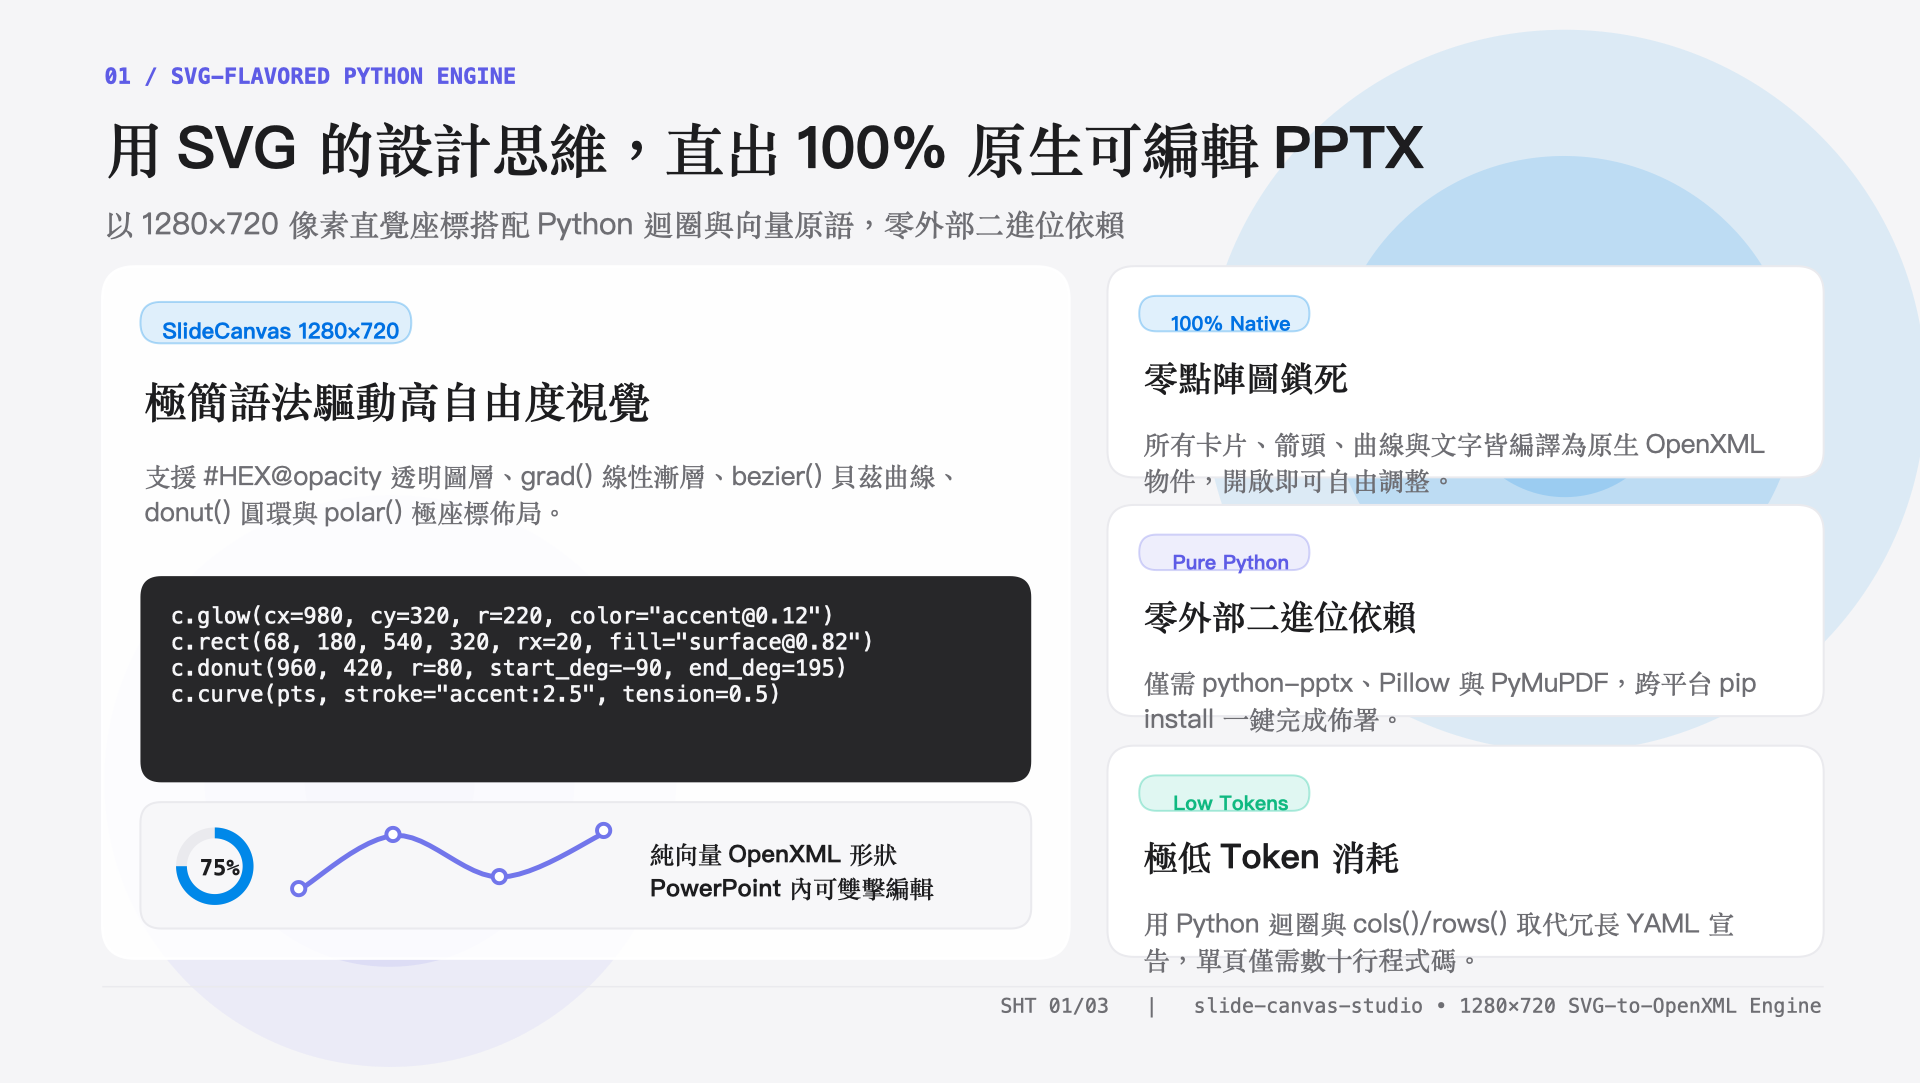
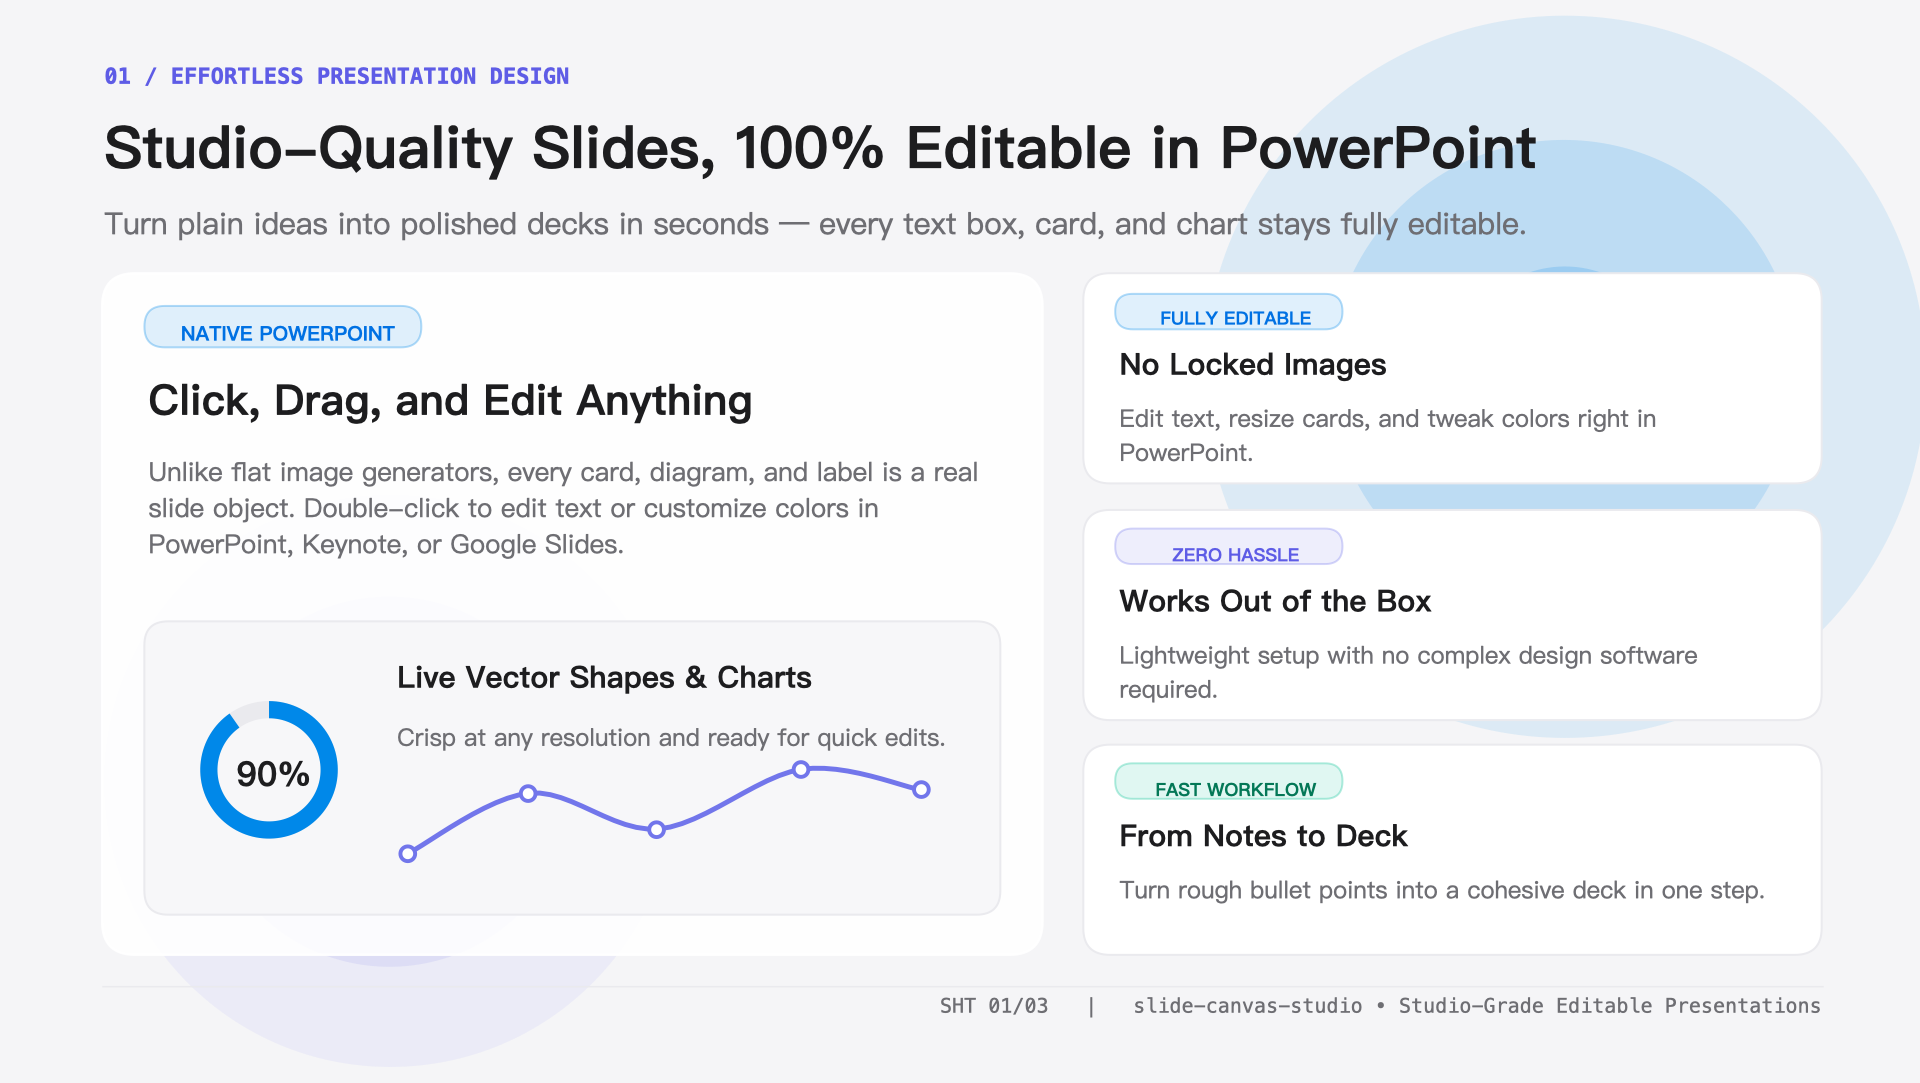
fix(layout): add container overflow check, calibrate Latin text width & update English user-focused showcase

diff --git a/scripts/dump_slide_layout.py b/scripts/dump_slide_layout.py
@@ -86,8 +86,8 @@ def is_intentional_container(outer: dict, inner: dict) -> bool:
     if area_outer <= area_inner * 1.15:
         return False
     inter = intersection_area(outer, inner)
-    # If >= 85% of inner lies inside outer:
-    if inter / area_inner >= 0.85:
+    # Require >= 98% of inner to lie inside outer so protruding children are caught:
+    if inter / area_inner >= 0.98:
         # Container either has no text (like col_1_card) or top-aligned header text above inner
         if not outer["text"].strip():
             return True
@@ -140,8 +140,24 @@ def dump_slide_layout(pptx_path: str, slide_num: int, out_json: str = None) -> d
             el_type = "shape"
             text_val = shp.text_frame.text if shp.has_text_frame else ""
             font_pt = extract_shape_font_pt(shp, 12.5)
-            est_h = estimate_text_height_cm(text_val, font_pt, w_cm) if text_val.strip() else 0.0
-            is_overflow = bool(text_val.strip() and est_h > h_cm * 1.18 and not decorative)
+            if text_val.strip():
+                is_pill = name.lower().startswith("pill_")
+                is_stat_val = name.lower().startswith("stat_val_")
+                _, est_h, line_count = wrap_and_measure_text(
+                    text_val,
+                    box_w_cm=w_cm,
+                    font_size_pt=font_pt,
+                    line_height=1.18 if is_stat_val else 1.32,
+                    pad_v_cm=0.04 if (is_pill or is_stat_val) else 0.14,
+                )
+            else:
+                est_h, line_count = 0.0, 0
+            is_pill_wrap = name.lower().startswith("pill_") and h_cm <= 0.95 and line_count > 1
+            is_overflow = bool(
+                text_val.strip()
+                and not decorative
+                and (est_h > h_cm * 1.05 or is_pill_wrap)
+            )
 
         is_oob = False
         if not decorative:
@@ -208,7 +224,45 @@ def dump_slide_layout(pptx_path: str, slide_num: int, out_json: str = None) -> d
                     }
                 )
 
-    # Background fill & text contrast check
+    # Container boundary check: detect child elements protruding outside their parent card_bg_*
+    container_overflows = []
+    container_cards = [
+        e for e in elements
+        if ("card_bg" in e["name"].lower() or (not e["text"].strip() and "box_" in e["name"].lower()))
+        and "glow" not in e["name"].lower()
+        and e["w_cm"] >= 1.8 and e["h_cm"] >= 1.0
+    ]
+    for el in non_dec:
+        cx = el["x_cm"] + el["w_cm"] / 2.0
+        top_anchor_y = min(el["bottom_cm"], el["y_cm"] + 0.15)
+        el_area = el["w_cm"] * el["h_cm"]
+        enclosing = [
+            c for c in container_cards
+            if c["index"] < el["index"]
+            and (c["w_cm"] * c["h_cm"]) > el_area * 1.15
+            and c["x_cm"] <= cx <= c["right_cm"]
+            and c["y_cm"] <= top_anchor_y <= c["bottom_cm"]
+        ]
+        if enclosing:
+            parent = min(enclosing, key=lambda c: c["w_cm"] * c["h_cm"])
+            eff_bottom = max(el["bottom_cm"], round(el["y_cm"] + el["estimated_text_h_cm"], 3))
+            if (
+                eff_bottom > parent["bottom_cm"] - 0.04
+                or el["right_cm"] > parent["right_cm"] + 0.05
+                or el["x_cm"] < parent["x_cm"] - 0.05
+                or el["y_cm"] < parent["y_cm"] - 0.05
+            ):
+                container_overflows.append(
+                    {
+                        "child": el["name"],
+                        "container": parent["name"],
+                        "child_bounds": [el["x_cm"], el["y_cm"], el["right_cm"], eff_bottom],
+                        "container_bounds": [parent["x_cm"], parent["y_cm"], parent["right_cm"], parent["bottom_cm"]],
+                        "text_preview": el["text"][:50],
+                    }
+                )
+
+    # Background fill & container-aware text contrast check
     _A_NS = "{http://schemas.openxmlformats.org/drawingml/2006/main}"
     _P_NS = "{http://schemas.openxmlformats.org/presentationml/2006/main}"
 
@@ -221,6 +275,22 @@ def dump_slide_layout(pptx_path: str, slide_num: int, out_json: str = None) -> d
         l1, l2 = _rel_lum(h1), _rel_lum(h2)
         return round((max(l1, l2) + 0.05) / (min(l1, l2) + 0.05), 2)
 
+    def _extract_solid_hex(shp_obj):
+        sp_pr = getattr(shp_obj._element, "spPr", None)
+        if sp_pr is None:
+            return None
+        srgb = sp_pr.find(f"{_A_NS}solidFill/{_A_NS}srgbClr")
+        if srgb is not None and srgb.get("val"):
+            alpha_el = srgb.find(f"{_A_NS}alpha")
+            if alpha_el is not None and alpha_el.get("val"):
+                try:
+                    if int(alpha_el.get("val")) < 50000:
+                        return None
+                except ValueError:
+                    pass
+            return srgb.get("val").upper()
+        return None
+
     bg_hex = "FFFFFF"
     bg_pr = slide.background._element.find(f"{_P_NS}bg/{_P_NS}bgPr")
     if bg_pr is not None:
@@ -232,30 +302,47 @@ def dump_slide_layout(pptx_path: str, slide_num: int, out_json: str = None) -> d
             if gs is not None and gs.get("val"):
                 bg_hex = gs.get("val").upper()
 
+    filled_stack = []
     contrast_issues = []
-    for shp in slide.shapes:
+    for idx_s, shp in enumerate(slide.shapes, start=1):
+        el_meta = elements[idx_s - 1]
+        own_hex = _extract_solid_hex(shp)
         if shp.has_text_frame and shp.text_frame.text.strip():
-            # Only check shapes without opaque solid fill against slide background
-            sp_pr = getattr(shp._element, "spPr", None)
-            has_own_fill = sp_pr is not None and sp_pr.find(f"{_A_NS}solidFill/{_A_NS}srgbClr") is not None
-            if not has_own_fill:
-                for p in shp.text_frame.paragraphs:
-                    for r in p.runs:
-                        if r.text.strip() and r.font.color and r.font.color.rgb:
-                            fg_hex = str(r.font.color.rgb).upper()
-                            ratio = _cr(bg_hex, fg_hex)
-                            if ratio < 3.0:
-                                contrast_issues.append({
-                                    "name": shp.name or f"shape_{shp.shape_id}",
-                                    "bg_hex": bg_hex,
-                                    "fg_hex": fg_hex,
-                                    "contrast_ratio": ratio,
-                                    "text_preview": r.text[:40],
-                                })
-                            break
-                    break
+            eff_bg = own_hex
+            if not eff_bg:
+                cx = el_meta["x_cm"] + el_meta["w_cm"] / 2.0
+                cy = el_meta["y_cm"] + el_meta["h_cm"] / 2.0
+                for prev_box, prev_hex in reversed(filled_stack):
+                    if prev_box["x_cm"] <= cx <= prev_box["right_cm"] and prev_box["y_cm"] <= cy <= prev_box["bottom_cm"]:
+                        eff_bg = prev_hex
+                        break
+            if not eff_bg:
+                eff_bg = bg_hex
+            for p in shp.text_frame.paragraphs:
+                for r in p.runs:
+                    if r.text.strip() and r.font.color and r.font.color.rgb:
+                        fg_hex = str(r.font.color.rgb).upper()
+                        ratio = _cr(eff_bg, fg_hex)
+                        if ratio < 3.0:
+                            contrast_issues.append({
+                                "name": shp.name or f"shape_{shp.shape_id}",
+                                "bg_hex": eff_bg,
+                                "fg_hex": fg_hex,
+                                "contrast_ratio": ratio,
+                                "text_preview": r.text[:40],
+                            })
+                        break
+                break
+        if own_hex and "glow" not in el_meta["name"].lower():
+            filled_stack.append((el_meta, own_hex))
 
-    status = "PASS" if (len(out_of_bounds) == 0 and len(overlap_pairs) == 0 and len(overflow_risks) == 0 and len(contrast_issues) == 0) else "WARN"
+    status = "PASS" if (
+        len(out_of_bounds) == 0
+        and len(overlap_pairs) == 0
+        and len(container_overflows) == 0
+        and len(overflow_risks) == 0
+        and len(contrast_issues) == 0
+    ) else "WARN"
 
     if not out_json:
         project_dir = os.path.dirname(os.path.dirname(pptx_path))
@@ -273,12 +360,14 @@ def dump_slide_layout(pptx_path: str, slide_num: int, out_json: str = None) -> d
             "content_elements": len(non_dec),
             "out_of_bounds_count": len(out_of_bounds),
             "overlap_count": len(overlap_pairs),
+            "container_overflow_count": len(container_overflows),
             "overflow_risk_count": len(overflow_risks),
             "contrast_issue_count": len(contrast_issues),
         },
         "issues": {
             "out_of_bounds": out_of_bounds,
             "overlap_pairs": overlap_pairs,
+            "container_overflows": container_overflows,
             "overflow_risks": overflow_risks,
             "contrast_issues": contrast_issues,
         },

diff --git a/scripts/text_measure.py b/scripts/text_measure.py
@@ -23,27 +23,29 @@ def measure_text_width_cm(text: str, font_size_pt: float, bold: bool = False) ->
     if not text:
         return 0.0
     em_cm = font_size_pt * 0.0352778
-    bold_factor = 1.05 if bold else 1.0
+    bold_factor = 1.06 if bold else 1.0
     total_units = 0.0
     for ch in text:
         if ch == "\n":
             continue
         if ch == " ":
-            total_units += 0.28
-        elif unicodedata.east_asian_width(ch) in ("W", "F"):
-            total_units += 1.02
-        elif ch.isupper():
-            total_units += 0.68
-        elif ch.isdigit():
-            total_units += 0.56
-        elif ch in "ilIjtf.,:;'|!":
             total_units += 0.30
-        elif ch in "mwMW@#%&":
+        elif unicodedata.east_asian_width(ch) in ("W", "F"):
+            total_units += 1.03
+        elif ch in "MW@#%&":
+            total_units += 0.86
+        elif ch.isupper():
+            total_units += 0.67
+        elif ch.isdigit():
+            total_units += 0.58
+        elif ch in "ilIjtf.,:;'|!":
+            total_units += 0.33
+        elif ch in "mw":
             total_units += 0.82
         else:
-            total_units += 0.53
-    # Add small headroom (4%) to guard against OS font metric variance
-    return round(total_units * em_cm * bold_factor * 1.04, 4)
+            total_units += 0.56
+    # Add 7% headroom to guard against PowerPoint/QuickLook word-wrap margin variance
+    return round(total_units * em_cm * bold_factor * 1.07, 4)
 
 
 def _is_latin_word_char(ch: str) -> bool:

diff --git a/README.md b/README.md
@@ -16,16 +16,16 @@ Zero binary dependencies · CJK-aware typography · WCAG contrast guard · Dual 
 <table>
   <tr>
     <td width="33%" align="center">
-      <img src="assets/slide-1.png" alt="SVG-Flavored Python Engine" width="100%" /><br />
-      <sub><b>01 · SVG-Flavored Python Engine</b></sub>
+      <img src="assets/slide-1.png" alt="Studio-Quality Slides, 100% Editable in PowerPoint" width="100%" /><br />
+      <sub><b>01 · 100% Editable in PowerPoint</b></sub>
     </td>
     <td width="33%" align="center">
-      <img src="assets/slide-2.png" alt="CJK Typography & Contrast Guard" width="100%" /><br />
-      <sub><b>02 · CJK Typography & Contrast Guard</b></sub>
+      <img src="assets/slide-2.png" alt="Smart Auto-Layout & Readability" width="100%" /><br />
+      <sub><b>02 · Smart Auto-Layout & Readability</b></sub>
     </td>
     <td width="33%" align="center">
-      <img src="assets/slide-3.png" alt="Dual Verification & 5 Style Presets" width="100%" /><br />
-      <sub><b>03 · Dual Verification & 5 Style Presets</b></sub>
+      <img src="assets/slide-3.png" alt="5 Curated Designer Styles" width="100%" /><br />
+      <sub><b>03 · 5 Curated Designer Styles</b></sub>
     </td>
   </tr>
 </table>
